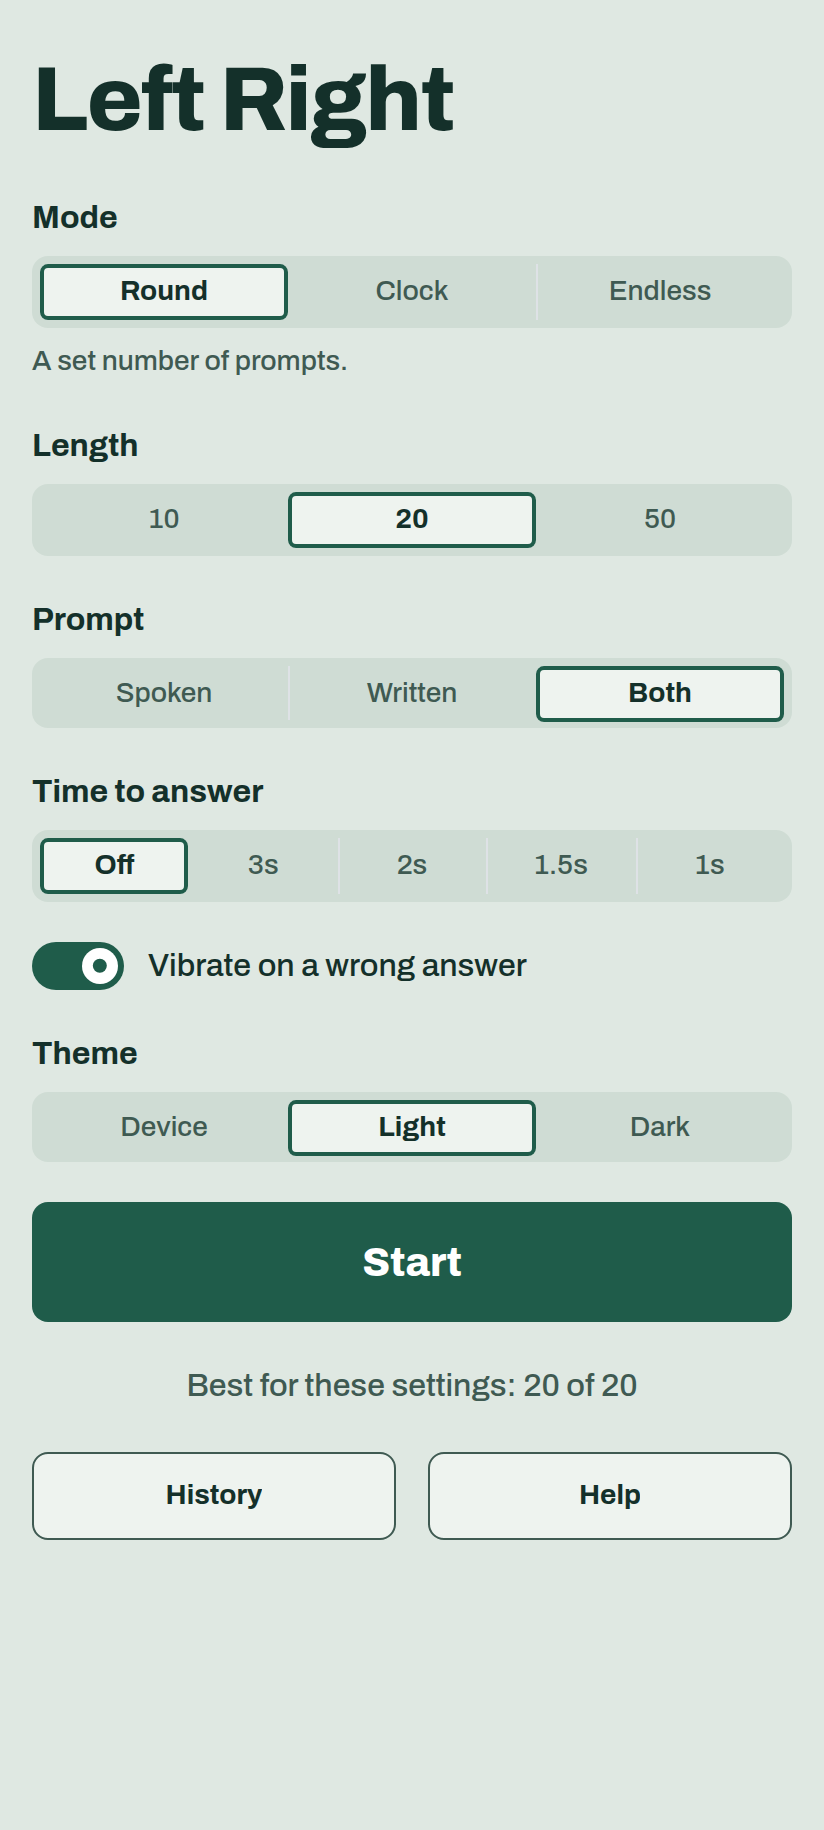
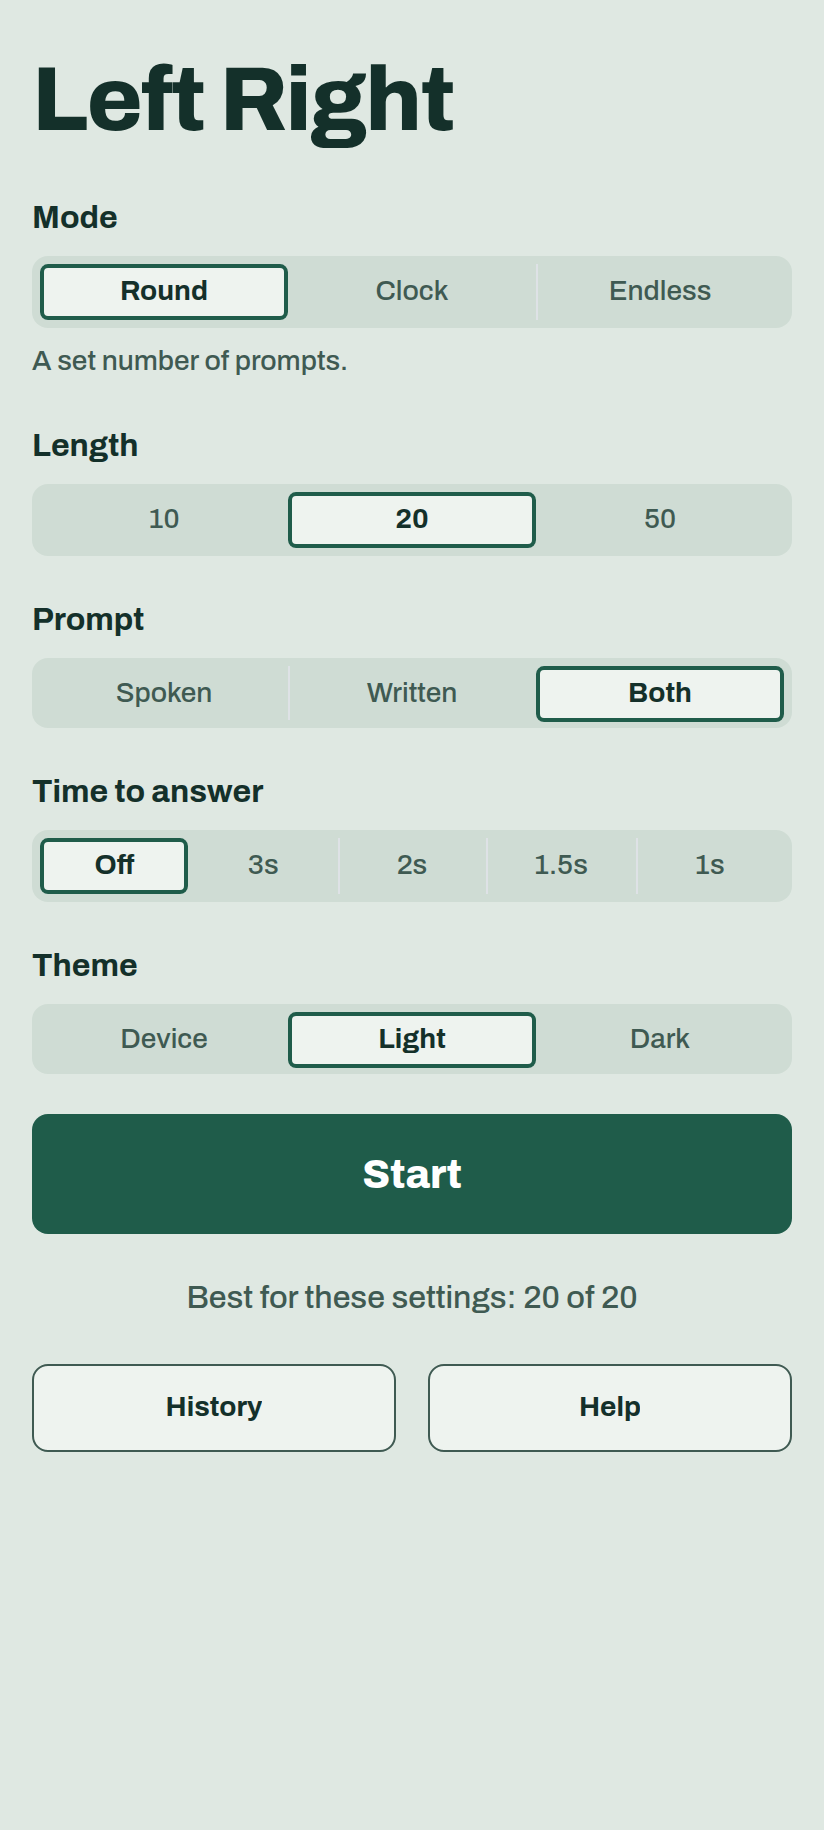
remove vibration
Firefox for Android turned vibration off for every site. navigator.vibrate()
still returns true there, so the setting did nothing and we couldn't even
tell. Chrome for Android still vibrates, but one browser isn't worth a
setting.

- Remove the vibrate setting, its switch, and its help text
- Retake the settings screenshot without the switch

diff --git a/src/GameScreen.tsx b/src/GameScreen.tsx
@@ -2,7 +2,7 @@ import type { SessionRecord } from './history.ts';
 import type { Settings } from './settings.ts';
 import { Check, Cross } from './Marks.tsx';
 import { type Side, getNextSide, getRound } from './sequence.ts';
-import { playClick, speak, stopSpeaking, vibrate } from './sound.ts';
+import { playClick, speak, stopSpeaking } from './sound.ts';
 import { useEffect, useEffectEvent, useState } from 'react';
 
 // Timing, in milliseconds
@@ -107,8 +107,6 @@ export default function GameScreen({
     setPhase('feedback');
     if (isRight) {
       playClick();
-    } else if (settings.vibrate) {
-      vibrate();
     }
   }
 

diff --git a/src/settings.ts b/src/settings.ts
@@ -21,7 +21,6 @@ export interface Settings {
   prompt: PromptType;
   roundLength: RoundLength;
   timeLimit: TimeLimit;
-  vibrate: boolean;
 }
 
 export const DEFAULT_SETTINGS: Settings = {
@@ -30,7 +29,6 @@ export const DEFAULT_SETTINGS: Settings = {
   prompt: 'both',
   roundLength: 20,
   timeLimit: 0,
-  vibrate: true,
 };
 
 const STORAGE_KEY = 'left-right-settings';
@@ -84,9 +82,6 @@ export function loadSettings(): Settings {
   }
   if (isTimeLimit(raw.timeLimit)) {
     settings.timeLimit = raw.timeLimit;
-  }
-  if (typeof raw.vibrate === 'boolean') {
-    settings.vibrate = raw.vibrate;
   }
   return settings;
 }

diff --git a/src/main.tsx b/src/main.tsx
@@ -3,11 +3,9 @@ import '@mantine/core/styles/default-css-variables.css';
 import '@mantine/core/styles/global.css';
 import '@mantine/core/styles/UnstyledButton.css';
 import '@mantine/core/styles/Button.css';
-import '@mantine/core/styles/InlineInput.css';
 // SegmentedControl draws its selected box with FloatingIndicator
 import '@mantine/core/styles/FloatingIndicator.css';
 import '@mantine/core/styles/SegmentedControl.css';
-import '@mantine/core/styles/Switch.css';
 import '@fontsource/archivo/500.css';
 import '@fontsource/archivo/700.css';
 import '@fontsource/archivo/800.css';

diff --git a/src/StartScreen.tsx b/src/StartScreen.tsx
@@ -2,7 +2,6 @@ import {
   Button,
   type MantineColorScheme,
   SegmentedControl,
-  Switch,
   useMantineColorScheme,
 } from '@mantine/core';
 import {
@@ -214,15 +213,6 @@ export default function StartScreen({
             }
           }}
           value={String(settings.timeLimit)}
-        />
-
-        <Switch
-          checked={settings.vibrate}
-          label='Vibrate on a wrong answer'
-          onChange={(event) =>
-            onChange({ vibrate: event.currentTarget.checked })
-          }
-          size='md'
         />
 
         <Choice

diff --git a/src/HelpScreen.tsx b/src/HelpScreen.tsx
@@ -46,10 +46,6 @@ export default function HelpScreen({ onBack }: { onBack: () => void }) {
           time runs out, it counts as wrong.
         </li>
         <li>
-          <strong>Vibrate on a wrong answer:</strong> on phones that can
-          vibrate.
-        </li>
-        <li>
           <strong>Theme:</strong> follow your device, or pick light or dark.
         </li>
       </ul>

diff --git a/src/sound.ts b/src/sound.ts
@@ -69,11 +69,3 @@ export function playClick(): void {
   oscillator.start(now);
   oscillator.stop(now + 0.06);
 }
-
-export function vibrate(): void {
-  try {
-    navigator.vibrate?.(200);
-  } catch {
-    // Not every browser has vibration, and that's fine.
-  }
-}

diff --git a/src/app.css b/src/app.css
@@ -108,10 +108,6 @@ body {
   min-height: max(44px, 2.5em);
 }
 
-.mantine-Switch-label {
-  color: var(--ink);
-}
-
 /* Screens other than the game */
 .screen {
   margin: 0 auto;

diff --git a/README.md b/README.md
@@ -10,7 +10,7 @@ It's a PWA, so you can add it to your home screen and play it offline.
 This app was created entirely by Claude Opus 5.5 at medium effort.
 
 <p>
-  <img alt='The start screen, with settings for mode, length, prompt, time to answer, vibration and theme' src='screenshots/settings.png' width='250'>
+  <img alt='The start screen, with settings for mode, length, prompt, time to answer and theme' src='screenshots/settings.png' width='250'>
   <img alt='A game in progress, showing the word LEFT over two tap areas' src='screenshots/game.png' width='250'>
   <img alt='The history screen for rounds, with charts of accuracy and average time and a list of sessions' src='screenshots/history.png' width='250'>
 </p>
